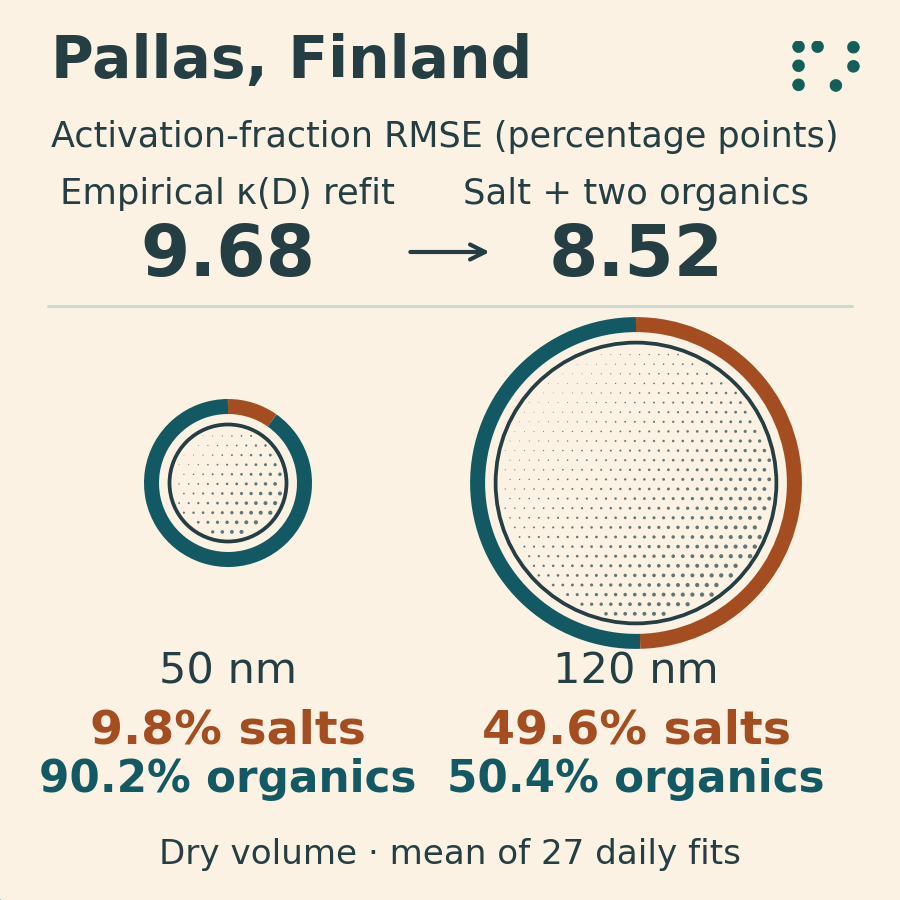
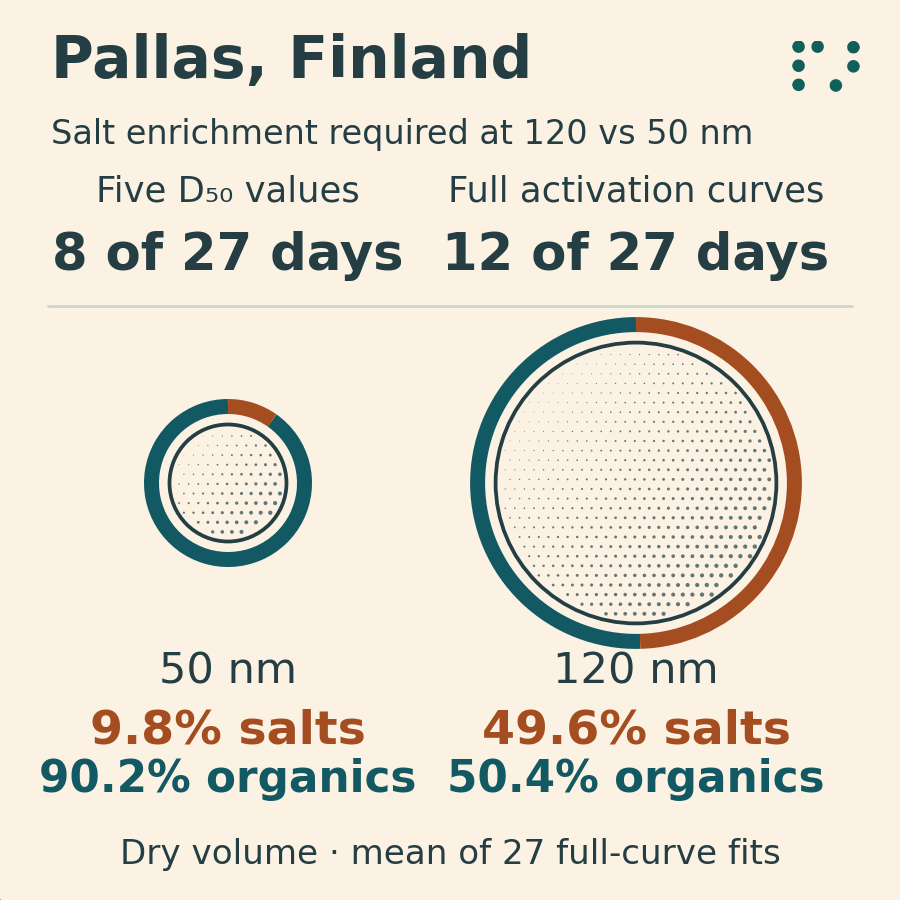
Compare salt allocation inferred from Pallas midpoints and full activation curves

Changed region(s): [[0.0622, 0.1244, 0.9333, 0.3111], [0.1244, 0.9333, 0.8711, 0.9644], [0.0622, 0.2489, 0.0933, 0.3111]]

diff --git a/studies/pallas-activation/midpoints.py b/studies/pallas-activation/midpoints.py
@@ -1,0 +1,71 @@
+"""Test whether the published midpoints alone require salt enrichment."""
+
+import numpy as np
+import pandas as pd
+from boundaries import minimum_rmse
+from calibration import basis
+from observations import P, SET, recipes, screened_scans, volume_spectra
+from study import PRIMARY, Population
+
+
+def compare():
+    """Fit the same population with and without enrichment at archived D50."""
+    archived, _ = screened_scans()
+    archived["date"] = archived.date.dt.strftime("%Y-%m-%d")
+    whole = pd.read_csv(P / "boundary-checks.csv").set_index("date")
+    fits = (
+        pd.read_csv(P / "fits.csv").query("model == @PRIMARY").set_index("date")
+    )
+    chemistry = recipes()
+    spectra = volume_spectra(fits.index)
+    results = []
+    with np.load(P / "thresholds.npz") as table:
+        for date, fit in fits.iterrows():
+            obs = archived.loc[archived.date == date].sort_values("SS")
+            np.testing.assert_allclose(obs.SS, SET)
+            pop = Population(table, chemistry.loc[date], spectra[date], PRIMARY)
+            response = pop.design(np.log(obs.D.to_numpy()), np.arange(len(SET)))
+            scale = np.sqrt(len(SET))
+            design = response / scale
+            target = np.full(len(SET), 0.5 / scale)
+            delta = pop.feature(
+                np.diff(basis(np.log([50.0, 120.0]), pop.knots), axis=0)[0],
+                pop.c[:, 0],
+            )
+            unrestricted = minimum_rmse(pop.seed, pop.A, pop.b, design, target)
+            restricted = minimum_rmse(
+                pop.seed,
+                pop.A,
+                pop.b,
+                design,
+                target,
+                [
+                    dict(
+                        type="ineq",
+                        fun=lambda w: -delta @ w,
+                        jac=lambda w: -delta,
+                    )
+                ],
+            )
+            assert restricted >= unrestricted - 1e-6
+            results.append(
+                dict(
+                    date=date,
+                    midpoint_rmse=unrestricted,
+                    midpoint_no_enrichment=restricted,
+                    curve_rmse=fit.rmse,
+                    curve_no_enrichment=whole.loc[
+                        date, "no_salt_enrichment_rmse"
+                    ],
+                )
+            )
+    return pd.DataFrame(results)
+
+
+if __name__ == "__main__":
+    daily = compare()
+    daily.to_csv(P / "midpoint-check.csv", index=False, float_format="%.10g")
+    for tolerance in (0.005, 0.01, 0.02):
+        for source in ("midpoint", "curve"):
+            cost = daily[f"{source}_no_enrichment"] - daily[f"{source}_rmse"]
+            print(source, tolerance, int((cost > tolerance).sum()), cost.mean())

diff --git a/studies/pallas-activation/figures/toc.py b/studies/pallas-activation/figures/toc.py
@@ -1,4 +1,4 @@
-"""Pallas TOC: matched activation-fit errors and two diameter-scaled salt-fraction gauges."""
+"""Pallas TOC: midpoint and full-curve salt-enrichment constraints."""
 
 from pathlib import Path
 
@@ -89,6 +89,8 @@ def particle(ax, x, diameter, fraction):
 
 def draw():
     days = pd.read_csv(DATA / "daily.csv")
+    scores = pd.read_csv(DATA / "midpoint-check.csv")
+    assert set(scores.date) == set(days.date)
     with plt.style.context("particula.toc"):
         fig = plt.figure(figsize=(3, 3), facecolor=PAPER)
         ax = fig.add_axes(
@@ -105,38 +107,34 @@ def draw():
         )
         ax.text(
             17,
-            251,
-            "Activation-fraction RMSE (percentage points)",
-            fontsize=8.4,
+            252,
+            "Salt enrichment required at 120 vs 50 nm",
+            fontsize=8.05,
             color=INK,
         )
-        for x, label, error in [
-            (76, "Empirical κ(D) refit", days.empirical_rmse.mean()),
-            (212, "Salt + two organics", days.rmse.mean()),
+        for x, label, kind in [
+            (76, "Five D₅₀ values", "midpoint"),
+            (212, "Full activation curves", "curve"),
         ]:
-            ax.text(x, 232, label, ha="center", fontsize=8.5, color=INK)
+            penalty = scores[f"{kind}_no_enrichment"] - scores[f"{kind}_rmse"]
+            count = int((penalty > 0.01).sum())
+            ax.text(x, 233, label, ha="center", fontsize=8.5, color=INK)
             ax.text(
                 x,
-                208,
-                f"{100 * error:.2f}",
+                210,
+                f"{count} of {len(scores)} days",
                 ha="center",
-                fontsize=17,
+                fontsize=12.3,
                 fontweight="bold",
                 color=INK,
             )
-        ax.annotate(
-            "",
-            xy=(166, 216),
-            xytext=(134, 216),
-            arrowprops=dict(arrowstyle="->", lw=1, color=INK),
-        )
         ax.plot([16, 284], [198, 198], color=PALE, lw=0.7)
         particle(ax, 76, 50, days.salt50.mean())
         particle(ax, 212, 120, days.salt120.mean())
         ax.text(
             150,
             12,
-            "Dry volume · mean of 27 daily fits",
+            "Dry volume · mean of 27 full-curve fits",
             ha="center",
             fontsize=8.2,
             color=INK,

diff --git a/studies/pallas-activation/boundaries.py b/studies/pallas-activation/boundaries.py
@@ -8,6 +8,27 @@ from scipy.optimize import minimize
 from study import PRIMARY, Population
 
 
+def minimum_rmse(z, A, b, M, t, extras=()):
+    """Minimize weighted fraction error with linear inventory constraints."""
+
+    def objective(w):
+        e = M @ w - t
+        return 100 * (e @ e), 200 * M.T @ e
+
+    eq = dict(type="eq", fun=lambda w: A @ w - b, jac=lambda w: A)
+    res = minimize(
+        objective,
+        z,
+        jac=True,
+        bounds=[(0, 1)] * len(z),
+        constraints=[eq, *extras],
+        method="SLSQP",
+        options={"ftol": 1e-10, "maxiter": 500},
+    )
+    assert res.success and max(abs(A @ res.x - b)) < 1e-8
+    return np.sqrt(res.fun / 100.0)
+
+
 def main():
     fits = pd.read_csv(P / "fits.csv").pivot(
         index="date", columns="model", values="rmse"
@@ -32,29 +53,12 @@ def main():
             pop.c[:, 0],
         )
 
-        def optimize(z, A, b, M, extras=()):
-            def objective(w):
-                e = M @ w - t
-                return 100 * (e @ e), 200 * M.T @ e
-
-            eq = dict(type="eq", fun=lambda w: A @ w - b, jac=lambda w: A)
-            res = minimize(
-                objective,
-                z,
-                jac=True,
-                bounds=[(0, 1)] * len(z),
-                constraints=[eq, *extras],
-                method="SLSQP",
-                options={"ftol": 1e-10, "maxiter": 500},
-            )
-            assert res.success and max(abs(A @ res.x - b)) < 1e-8
-            return np.sqrt(res.fun / 100.0)
-
-        sign = optimize(
+        sign = minimum_rmse(
             pop.seed,
             pop.A,
             pop.b,
             M,
+            t,
             [dict(type="ineq", fun=lambda w: -delta @ w, jac=lambda w: -delta)],
         )
         mask = np.tile(pop.c.max(axis=1) == 1, len(pop.knots))
@@ -65,7 +69,7 @@ def main():
         seed = np.tile(
             pop.c[pop.c.max(axis=1) == 1] @ inventories, len(pop.knots)
         )
-        pure = optimize(seed, A, b, M[:, mask])
+        pure = minimum_rmse(seed, A, b, M[:, mask], t)
         cap = fits.loc[date, PRIMARY] + 0.01
         both = (fits.loc[date, ["sorbitol only", "squalane only"]] > cap).all()
         assert (sign > cap) == (pr.loc[date, "delta_lo"] > 1e-6)

diff --git a/studies/pallas-activation/figures/replot.py b/studies/pallas-activation/figures/replot.py
@@ -1,4 +1,4 @@
-"""Render the three manuscript figures from the published numeric summaries."""
+"""Render the manuscript figures from the published numeric summaries."""
 
 from pathlib import Path
 
@@ -137,9 +137,39 @@ def same_index():
     save(fig, "same-index-example.png")
 
 
+def midpoint_constraint():
+    """Compare like-for-like penalties for ruling out salt enrichment."""
+    scores = pd.read_csv(DATA / "midpoint-check.csv").set_index("date")
+    x = 100 * (scores.midpoint_no_enrichment - scores.midpoint_rmse)
+    y = 100 * (scores.curve_no_enrichment - scores.curve_rmse)
+    fig, ax = plotting.subplots(size="square")
+    top = max(x.max(), y.max()) + 0.35
+    ax.plot([0, top], [0, top], color="#AAB3B1", linewidth=1, linestyle=":")
+    ax.axhline(1, color="#526164", linewidth=1, linestyle="--")
+    ax.axvline(1, color="#526164", linewidth=1, linestyle="--")
+    ax.scatter(x, y, color=RUST, alpha=0.8, s=26, zorder=3)
+    date = "2022-10-20"
+    ax.annotate(
+        "20 Oct",
+        (x[date], y[date]),
+        xytext=(8, 7),
+        textcoords="offset points",
+        fontsize=9,
+    )
+    ax.set(
+        xlim=(-0.12, top),
+        ylim=(-0.12, top),
+        title="Ruling out salt enrichment",
+        xlabel="Midpoint penalty (pp)",
+        ylabel="Full-curve penalty (pp)",
+    )
+    save(fig, "midpoint-constraint.png")
+
+
 if __name__ == "__main__":
     with plt.style.context("particula.default"):
         days = pd.read_csv(DATA / "daily.csv")
         activation_and_salt(days)
         daily_mixing(days)
         same_index()
+        midpoint_constraint()

diff --git a/studies/pallas-activation/figures/export.py b/studies/pallas-activation/figures/export.py
@@ -71,6 +71,9 @@ def export(run, comparator, destination):
         paired.index.to_numpy()[:, None], illustrated.D.unique(), rtol=1e-9
     ).any(axis=1)
     paired.to_csv(destination / "between-sizes.csv", float_format="%.10g")
+    pd.read_csv(run / "midpoint-check.csv").to_csv(
+        destination / "midpoint-check.csv", index=False, float_format="%.10g"
+    )
     pd.read_csv(run / "new-size-test.csv").to_csv(
         destination / "new-size-test.csv", index=False, float_format="%.10g"
     )

diff --git a/docs/studies/literature/pallas-activation/index.md b/docs/studies/literature/pallas-activation/index.md
@@ -1,24 +1,34 @@
-# Which particles carry the salt? A chemical interpretation of size-dependent κ at Pallas
+# Which particles carry the salt? What the Pallas activation curves reveal beyond their midpoints
 
-![A salt–organic model fits Pallas activation fractions with 8.52 percentage points of error versus 9.68 for an empirical hygroscopicity fit. Salt accounts for 9.8% of fitted dry volume at 50 nm and 49.6% at 120 nm.](../../../images/pallas-activation/salt-toc.png)
+![A chemical fit requires a greater salt fraction at 120 than at 50 nm on 8 of 27 dates using five published activation midpoints and on 12 using the full curves. Mean best-fit salt fractions from the full curves are 9.8% and 49.6% at 50 and 120 nm.](../../../images/pallas-activation/salt-toc.png)
 
-Could the distribution of salt and organic material explain why the inferred hygroscopicity of Pallas aerosol varied with dry particle size? Backman and colleagues measured the fraction of particles that activated at each dry diameter and supersaturation. Over 27 days, a chemical model fitted the measured fractions with a mean daily root-mean-square error of 8.52 percentage points, compared with 9.68 for our empirical fit of size-dependent hygroscopicity, κ(D). On every day, the best-fitting chemical allocation put a larger fraction of dry particle volume in salt at 120 nm than at 50 nm. The respective averages were 49.6% and 9.8%. On 12 days, every allocation in the model within one percentage point of the best daily error retained that enrichment. The other 15 days admitted alternatives. The chemical fit underestimated the concentration of cloud condensation nuclei (CCN) measured during separate bulk sampling hours. [Backman et al., data preprint, §3.3](https://doi.org/10.5194/essd-2025-284) · [Pallas measurements, version 4](https://doi.org/10.5281/zenodo.23309964)
+Backman and colleagues reported the dry diameter at which half the particles at Pallas activated at each supersaturation. What can the rest of the activation curve tell us about which particles carried the salt? We fitted the same chemically constrained particle population twice on each of 27 dates, first to the five published midpoints and then to all measured activated fractions. The midpoints required more salt by dry volume at 120 nm than at 50 nm on eight dates. The full curves required it on twelve, using a tolerance of one percentage point above each fit’s minimum error. Six dates met the criterion in both comparisons, six only with the full curves, and two only with the midpoints. The other thirteen admitted a fit without enrichment in both cases. Across all dates, the full-curve best fits assigned an average of 9.8% salt at 50 nm and 49.6% at 120 nm. Those fractions give a size-specific chemical interpretation that can be tested at the summit. [Backman et al., §3.3](https://doi.org/10.5194/essd-2025-284) · [Pallas measurements, version 4](https://doi.org/10.5281/zenodo.23309964)
 
-## What did the activation measurements constrain?
+## How Backman et al. measured activation at Pallas
 
-At Sammaltunturi in northern Finland, the counter alternated hourly between bulk sampling and sampling particles selected by dry mobility diameter. Backman et al. pooled the size scans by date because individual channels contained few particles. For each supersaturation they reported the fitted diameter at which half of the selected particles activated, its standard error and an inferred κ. Applying the analytical κ-Köhler conversion to the archived diameters, with an effective Kelvin diameter coefficient of 2.09915 nm, recovered all 332 usable κ values at their reported two-decimal precision. We used the underlying activated fractions for a different comparison. Our chemical model and our empirical κ(D) model each fitted the same 1,823 fractions at five supersaturations, from 0.1% to 1%. We weighted the five settings equally within each date and averaged the daily errors across dates. [Instrument and analysis methods](https://essd.copernicus.org/preprints/essd-2025-284/essd-2025-284.pdf#page=12) · [κ-Köhler description](https://doi.org/10.5194/acp-7-1961-2007)
+At Sammaltunturi in northern Finland, the counter alternated hourly between bulk sampling and sampling particles selected by dry mobility diameter. Backman et al. pooled the size scans by date because individual channels contained few particles. For each supersaturation they reported the fitted diameter at which half of the selected particles activated, its standard error and an inferred κ. Applying the analytical κ-Köhler conversion to the archived diameters, with an effective Kelvin diameter coefficient of 2.09915 nm, recovered all 332 usable κ values at their reported two-decimal precision. Backman et al. used these midpoints to characterize effective hygroscopicity. We used their archived midpoints and underlying fractions to ask which salt allocations each description can distinguish. [Instrument and analysis methods](https://essd.copernicus.org/preprints/essd-2025-284/essd-2025-284.pdf#page=12) · [κ-Köhler description](https://doi.org/10.5194/acp-7-1961-2007)
 
 The chemical model distributed 15 candidate particle compositions across dry sizes. It used two salts, ammonium sulfate and sodium chloride, and two representative organics, water-soluble sorbitol and oil-like squalane. For each composition we calculated activation from AIOMFAC water activity and the Kelvin curvature term, assuming that squalane formed a separate oil reservoir with limited aqueous solubility and that the activating surface was water-rich. Full phase equilibrium in the salt–organic mixture remains unverified. Regional filter measurements constrained organic carbon relative to the amounts of salt that could be formed from the measured ions. The filters sampled Matorova, about 6 km away and 220 m below the summit. The organic compounds in the calculation represent possible water-uptake behaviors. Their identities and size distributions remain unmeasured at the counter. [Chemical constraints and thermodynamic assumptions](chemistry.md) · [Matorova carbon](https://doi.org/10.48597/CAMS-V8ZB) · [Matorova ions](https://doi.org/10.48597/J4SV-VVBN) · [AIOMFAC thermodynamics](https://doi.org/10.5194/acp-11-9155-2011)
+
+## On which dates does the size distribution of salt matter?
+
+For the midpoint comparison, the chemical model was asked to activate half the particles at each of the authors’ five reported D₅₀ values. For the full-curve comparison, the same model fitted all 1,823 observed fractions, weighting each supersaturation equally within its day. We repeated each fit while requiring the 120 nm salt fraction to be less than or equal to the 50 nm fraction. If imposing that constraint raised daily root-mean-square error (RMSE) by more than one activation percentage point, we counted the date as requiring enrichment. The midpoint calculation uses the central reported diameters. It scores errors in *activated fraction* at those diameters and does not propagate the authors’ diameter standard errors.
+
+On 20 October the constraint cost just **0.48 activation percentage points** at the five midpoints, but **3.76 points** across the measured curves. The fractions away from 50% activation distinguish salt allocations that fit the midpoints almost equally well. The reverse occurred on two dates: an allocation could fit the whole scan within tolerance even though the midpoint-only score favored enrichment. At tolerances of 0.5, 1 and 2 points, respectively, the midpoint comparison required enrichment on 13, 8 and 4 dates, and the full curves on 16, 12 and 6. These are conditional fit comparisons on the same observations. They do not measure a change in atmospheric composition between samples.
+
+![Each date is a point comparing the increase in activation error when 120 nm particles must have no greater salt fraction than 50 nm particles. Six points cross the one-point tolerance only for the full curves and two only for midpoints.](../../../images/pallas-activation/midpoint-constraint.png)
+
+*Each point represents a paired refit of the same day. A penalty of 1 pp means the constraint added one percentage point to activation-fraction RMSE. Dashed lines mark the chosen one-percentage-point tolerance. Distance along each axis gives the penalty for ruling out salt enrichment using that axis’s observations.* [Daily scores](https://github.com/uncscode/particula/blob/main/website/public/study-data/pallas-activation/midpoint-check.csv)
 
 ![On 16 September, observed activated fractions and fitted curves by dry diameter and supersaturation. Across the 27 dates, the mean fitted salt-volume fraction rises from 50 to 120 nm, then declines by 180 nm.](../../../images/pallas-activation/activation-and-salt.png)
 
 *Figure 1. Open circles are Pallas measurements on the date with median fit error. Lines connect fitted fractions evaluated at the measured dry diameters. The salt panel shows the mean best-fit profile and the middle half of daily profiles.*
 
-The best fits assigned 9.8%, 36.9%, 49.6% and 36.7% of dry volume to salt at 50, 80, 120 and 180 nm, respectively. Salt enrichment was concentrated in the middle of this size range. Across dates, the fitted organics averaged 62% sorbitol-like material by organic dry volume. Only six dates required both organic classes within the one-point error tolerance. That tolerance measures how much fit quality we allowed an alternative allocation to lose. It is an analyst’s choice, distinct from the instrumental error.
+All 27 full-curve best fits placed more salt at 120 nm than at 50 nm. The best fits assigned 9.8%, 36.9%, 49.6% and 36.7% of dry volume to salt at 50, 80, 120 and 180 nm, respectively. Salt enrichment was concentrated in the middle of this size range. Across dates, the fitted organics averaged 62% sorbitol-like material by organic dry volume. Only six dates required both organic classes within the one-point error tolerance. That tolerance measures how much fit quality we allowed an alternative allocation to lose. It is an analyst’s choice, distinct from the instrumental error.
 
-## Better calibration gave little gain at an omitted setting
+## Does the chemical interpretation transfer to other measurements?
 
-The chemical fit reduced mean daily activation error by 1.16 percentage points compared with our empirical κ(D) fit (95% paired date-bootstrap interval 0.33–1.99 points). Both models used all five settings in this calibration, and the chemical model had more freedom to adjust the population. When we refitted each date on four settings and tested the fifth, the mean error was 10.62 points for the chemical model and 10.77 for κ(D).
+Holding the chemical class abundances constant across sizes gave a mean daily activation RMSE of 14.31 points. Allowing them to vary by size gave 8.52 points. In a separate empirical comparison, we fitted a continuous κ(D) power law to the same fractions and obtained 9.68 points. The chemical fit reduced this error by 1.16 percentage points (95% paired date-bootstrap interval 0.33–1.99 points). Both models used all five settings in this calibration, and the chemical model had more freedom to adjust the population. When we refitted each date on four settings and tested the fifth, the mean error was 10.62 points for the chemical model and 10.77 for κ(D).
 
 Bulk sampling supplied a second test. We integrated the modeled activation probability over measured dry size spectra and scaled the result to simultaneous ambient particle counts. On 4,110 matched bulk minutes across ten dates and four settings, the chemical model predicted 48.6 CCN cm⁻³ against 63.9 cm⁻³ measured. Its mean absolute error was 18.87 cm⁻³, compared with 16.27 cm⁻³ for κ(D), with dates and settings weighted equally. The bulk observations came from other sampling hours and shared the same CCN counter. A closer fit to the size scans did not improve the count estimate in those hours.
 

diff --git a/studies/pallas-activation/README.md b/studies/pallas-activation/README.md
@@ -33,6 +33,7 @@ python tables.py
 python study.py --pilot
 python study.py
 python boundaries.py
+python midpoints.py
 python between.py
 python summarize.py
 python figures/export.py "$PALLAS_RUN" --out "$PALLAS_RUN/figure-data"
@@ -42,16 +43,17 @@ python figures/export.py "$PALLAS_RUN" --out "$PALLAS_RUN/figure-data"
 | --- | --- | --- |
 | [Thermodynamics](tables.py) | Compare CPU and CUDA critical diameters for a six-composition pilot. Tabulate the Köhler maximum over 385 water volumes using AIOMFAC aqueous water activity, a separate pure-squalane reservoir and water surface tension at 298.15 K. Double the water-grid resolution for one salt blend. | `thresholds.npz`, `thermodynamics.json` |
 | [Daily calibration](study.py) and [loss derivatives](calibration.py) | Minimize mean squared activated-fraction error, weighting the five supersaturations equally within each date. Particle-class fractions sum to one at each of five log-diameter knots. The primary model has 15 compositions, with 12 model sensitivities. Warp differentiates the loss on CUDA and SciPy constrains the fit. An independent linear bound checks the numerical optimum. Fit a two-parameter κ(D) power law using the same log-diameter response width (0.2572664) inherited from the earlier 17-date glutaric-acid model. | `fits.csv`, `comparator.csv`, `curves.csv`, `shares.csv.gz`, `samples.csv`, `run.json` |
+| [Five midpoints versus full curves](midpoints.py) | At each of five archived D₅₀ values per date, fit a 50% activated fraction using the same population, uptake physics and regional chemistry. Refit with the 120 nm salt fraction bounded above by the 50 nm fraction. Compare the within-objective penalty with the same constraint applied to full curves. The central D₅₀ values are inputs and their fit errors in nm are not propagated. | `midpoint-check.csv`, midpoint-constraint figure and TOC counts |
 | [Daily feasible ranges](study.py) and [boundary checks](boundaries.py) | Allow daily RMSE to rise by 0.01 in fraction units. Vary salt enrichment and organic ratio separately. Hold daily fitted inventories fixed when optimizing the mass-weighted three-group Riemer–West index. Refit the no-enrichment and externally mixed boundaries. | `profiles.csv`, `boundary-checks.csv` |
 | [Omission and bulk replay](study.py) | Refit each model after omitting one setting, then predict its observations. Match a bulk-counter minute midpoint to the first subsequent DMPS scan end within 390 s. Convert spectral shape to number using measured ambient CN and integrate the response with 12-point quadrature in each log-diameter bin. The ten later dates yield 4,110 minutes at four settings. | `omitted.csv`, `comparator-omitted.csv`, `bulk.csv`, `comparator-bulk.csv` |
 | [Between-channel redistribution](between.py) | Choose the median-error day, insert two DMPS channel centers between observed activation sizes, and redistribute two particle classes while preserving their integrated histograms. Independently check activation at each observed size and predict experimental setpoints at the inserted sizes. | `between.json`, `between-curves.csv`, `new-size-test.csv` |
-| [Headline calculation](summarize.py) and [figure export](figures/export.py) | Recompute the primary daily RMSE from individual measured fractions. Use 20,000 paired date resamples for the difference from empirical κ(D). Export only the plotted quantities. | `headline.json`, `figure-data/{daily,activation,between-sizes,new-size-test}.csv` |
+| [Headline calculation](summarize.py) and [figure export](figures/export.py) | Recompute the primary daily RMSE from individual measured fractions. Use 20,000 paired date resamples for the difference from empirical κ(D). Export only the plotted quantities. | `headline.json`, `figure-data/{daily,activation,between-sizes,new-size-test,midpoint-check}.csv` |
 
 The input-to-output replay reproduced daily mean RMSEs of 8.52295 and 9.68232 percentage points, with mean salt volume of 9.77865% at 50 nm and 49.59081% at 120 nm. Twelve daily solutions require enrichment within the chosen one-point tolerance. For September 16, the exact redistribution changes the salt allocation at 112.20 and 130.50 nm while preserving the measured-size responses. Decimal round-off in fitted class abundances can vary across compatible optimizers and CUDA drivers.
 
 ## Redraw the published figures on CPU
 
-From this directory, run the following commands with the checkout installed. The four small [plot tables](../../website/public/study-data/pallas-activation) ship with the manuscript. To check a new calibration, compare its exported tables with those files at the displayed precision.
+From this directory, run the following commands with the checkout installed. The five small [plot tables](../../website/public/study-data/pallas-activation) ship with the manuscript. To check a new calibration, compare its exported tables with those files at the displayed precision.
 
 ```bash
 python figures/replot.py
@@ -59,7 +61,7 @@ python figures/toc.py
 python ../../docs/studies/literature/pallas-activation/daily_salt.py
 ```
 
-The [manuscript plotting script](figures/replot.py) combines the 16 September scan in `activation.csv` with daily salt profiles from `daily.csv` for Figure 1. The same daily table supplies the mixing-index ranges in Figure 2. Figure 3 plots the two salt allocations in `between-sizes.csv` and the manuscript quotes the activation predictions from `new-size-test.csv`. The [TOC source](figures/toc.py) uses the matched daily errors and salt fractions. All scientific plots use `particula.default`, and the TOC uses `particula.toc`.
+The [manuscript plotting script](figures/replot.py) combines the 16 September scan in `activation.csv` with daily salt profiles from `daily.csv` for Figure 1. The same daily table supplies the mixing-index ranges in Figure 2. Figure 3 plots the two salt allocations in `between-sizes.csv` and the manuscript quotes the activation predictions from `new-size-test.csv`. The [TOC source](figures/toc.py) pairs the counts of dates requiring enrichment with the mean full-curve salt fractions. All scientific plots use `particula.default`, and the TOC uses `particula.toc`.
 
 ## Check the chemical surrogates and the eight-ion regional budget
 

diff --git a/docs/studies/literature/index.md b/docs/studies/literature/index.md
@@ -52,7 +52,7 @@ Modeled convection supplies only a third of the heat needed for the reported pen
 <div class="study-figures">
 
 [![Pallas fits place 9.8% salt at 50 nm and 49.6% at 120 nm.](../../images/pallas-activation/salt-toc.png)\
-Which particles carry the salt? A chemical interpretation of size-dependent κ at Pallas](pallas-activation/index.md)
+Which particles carry the salt? What the Pallas activation curves reveal beyond their midpoints](pallas-activation/index.md)
 
 [![At Mt. Soledad, detected droplets averaged 5.18 µm on bypass and 5.17 µm after the denuder. The count response fell to 0.78 of bypass.](../../images/mt-soledad/graphical-abstract.svg)\
 At Mt. Soledad, the denuded path counted fewer droplets of nearly unchanged mean size](particle-water-uptake/mt-soledad/index.md)
@@ -145,7 +145,7 @@ Adding settling and diffusion lowers predicted one-hour survival of 1 µm partic
 
 **Water uptake and cloud activation**
 
-- [Which particles carry the salt? A chemical interpretation of size-dependent κ at Pallas](pallas-activation/index.md)
+- [Which particles carry the salt? What the Pallas activation curves reveal beyond their midpoints](pallas-activation/index.md)
 - [At Mt. Soledad, the denuded path counted fewer droplets of nearly unchanged mean size](particle-water-uptake/mt-soledad/index.md)
 - [How an organic film can improve one Antarctic CCN count and worsen the activation spectrum](antarctic-ccn/index.md)
 - [Liquid salt mixing widens the winter foothill growth-factor bias at Mt. Hua from +0.54 to +0.72](particle-water-uptake/mt-hua/index.md)
